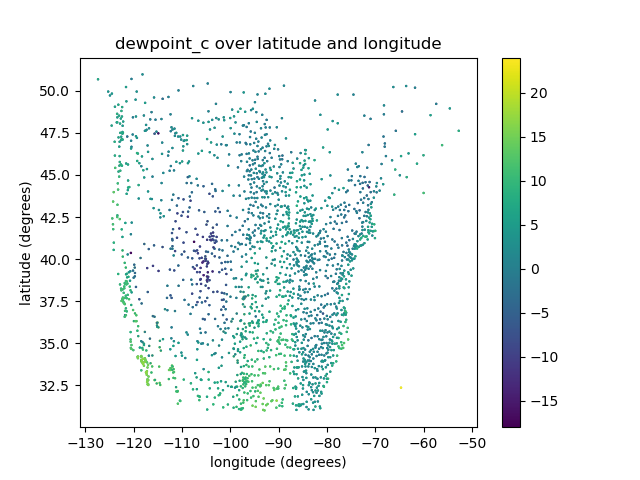
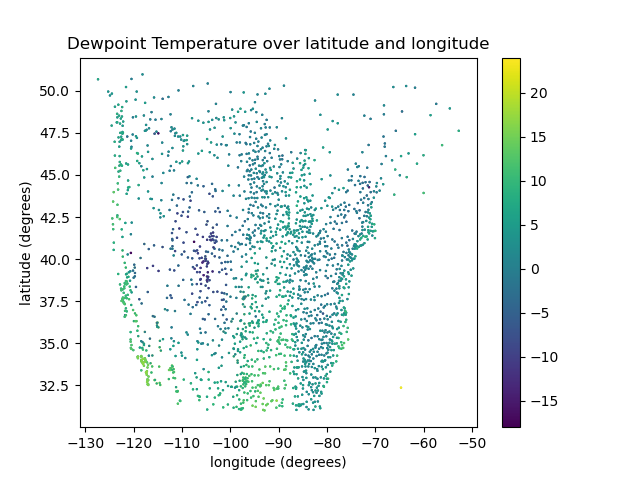
Updated plot figures with better descripitions

Changed region(s): [[0.0938, 0.0625, 0.7812, 0.125]]

diff --git a/src/data_visualizer.py b/src/data_visualizer.py
@@ -45,7 +45,7 @@ def plot_data_usa(given_data):
                 c = given_data['temp_c'])
     plt.xlabel('longitude (degrees)')
     plt.ylabel('latitude (degrees)')
-    plt.title('temp_c over latitude and longitude')
+    plt.title('Air Temperature over latitude and longitude')
     cb1 = plt.colorbar(f1)
     plt.savefig(os.path.join(save_image_path, 'temp_c_usa.png'))
 
@@ -53,7 +53,7 @@ def plot_data_usa(given_data):
                 c = given_data['dewpoint_c'])
     plt.xlabel('longitude (degrees)')
     plt.ylabel('latitude (degrees)')
-    plt.title('dewpoint_c over latitude and longitude')
+    plt.title('Dewpoint Temperature over latitude and longitude')
     cb1.remove()
     cb2 = plt.colorbar(f2)
     plt.savefig(os.path.join(save_image_path, 'dewpoint_c_usa.png'))
@@ -62,7 +62,7 @@ def plot_data_usa(given_data):
                 c = given_data['wind_dir_degrees'])
     plt.xlabel('longitude (degrees)')
     plt.ylabel('latitude (degrees)')
-    plt.title('temp_c over latitude and longitude')
+    plt.title('Direction from which the wind is blowing (0 = variable) over latitude and longitude')
     cb2.remove()
     cb3 = plt.colorbar(f3)
     plt.savefig(os.path.join(save_image_path, 'wind_dir_degrees_usa.png'))
@@ -71,7 +71,7 @@ def plot_data_usa(given_data):
             c = given_data['wind_speed_kt'])
     plt.xlabel('longitude (degrees)')
     plt.ylabel('latitude (degrees)')
-    plt.title('wind_speed_kt over latitude and longitude')
+    plt.title('Wind speed over latitude and longitude')
     cb3.remove()
     cb4 = plt.colorbar(f4)
     plt.savefig(os.path.join(save_image_path, 'wind_speed_kt_usa.png'))
@@ -80,7 +80,7 @@ def plot_data_usa(given_data):
             c = given_data['visibility_statute_mi'])
     plt.xlabel('longitude (degrees)')
     plt.ylabel('latitude (degrees)')
-    plt.title('visibility_statute_mi over latitude and longitude')
+    plt.title('Horizontal visibility over latitude and longitude')
     cb4.remove()
     cb5 = plt.colorbar(f5)
     plt.savefig(os.path.join(save_image_path, 'visibility_usa.png'))
